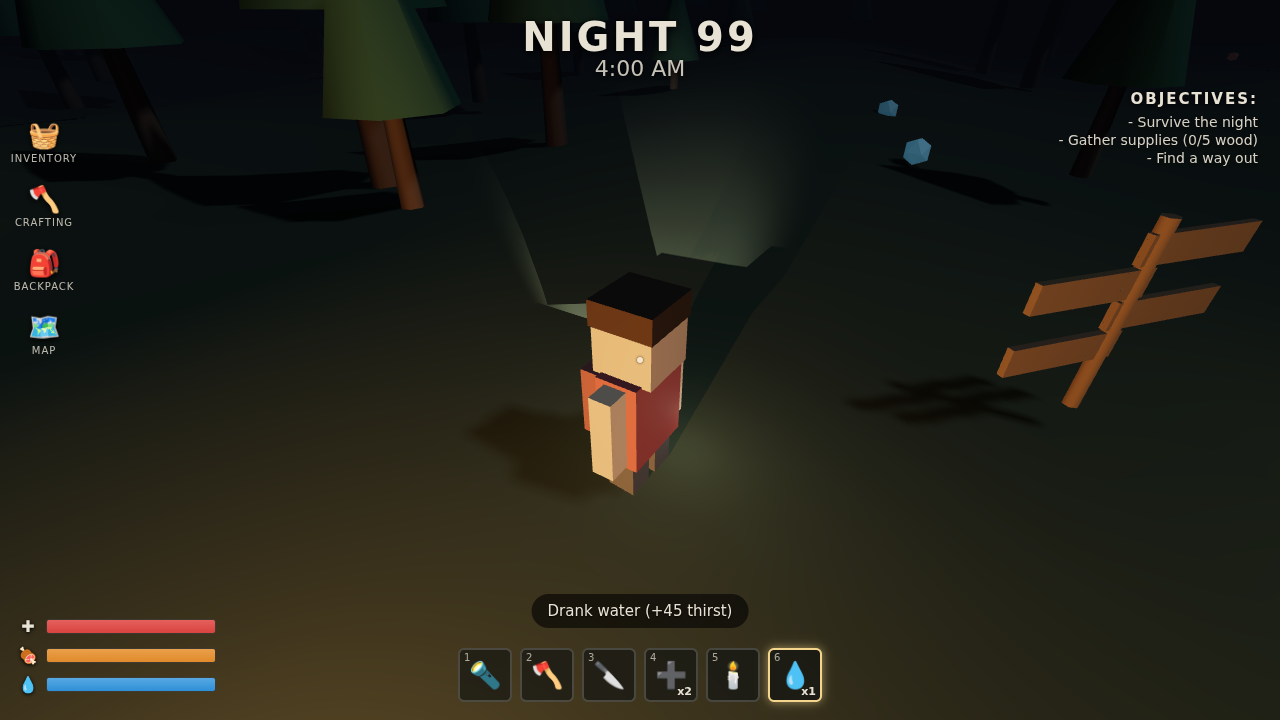
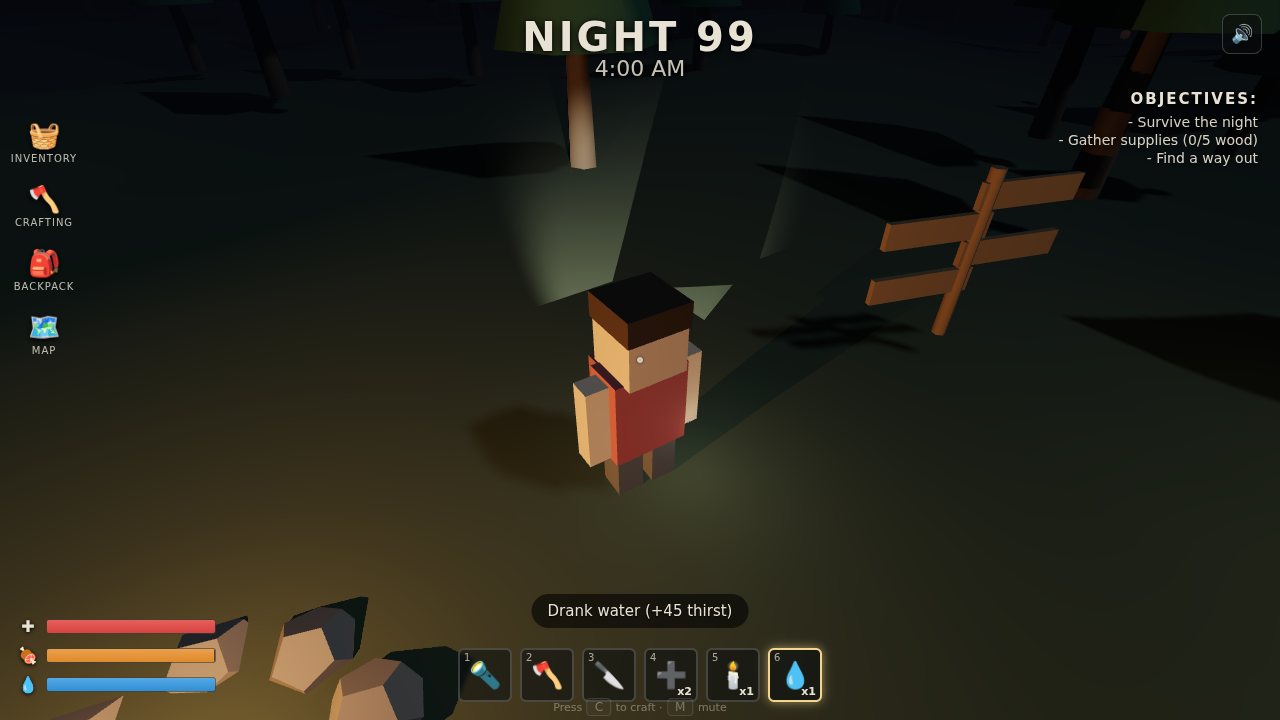
Document sound, crafting, night ramp, and multiplayer
Update the README with the new controls (C craft, M mute), the endless
night-ramp explanation, the crafting recipe table, the procedural sound
notes, and multiplayer setup instructions, plus a multiplayer screenshot.

Claude-Session: https://claude.ai/code/session_01EiMxT2tKP7YPnvvGq6GLsY

diff --git a/nightfall-woods/README.md b/nightfall-woods/README.md
@@ -6,7 +6,8 @@ forest and have to reach dawn without your health, hunger, or thirst hitting zer
 while something with antlers moves between the trees.
 
 Built with plain [Three.js](https://threejs.org) (vendored locally, so it works
-fully offline).
+fully offline). Now with **procedural sound, crafting, an endless difficulty ramp
+across nights, and optional multiplayer**.
 
 ![Nightfall Woods](docs/screenshot.png)
 
@@ -45,6 +46,8 @@ vendored as a classic script (`vendor/three.min.js`), so it loads straight from
 | **Left-click** | Use selected item |
 | **F** | Toggle flashlight |
 | **E** | Interact (pick up berries/water, board the boat) |
+| **C** | Open/close crafting |
+| **M** | Mute/unmute sound |
 | **Esc** | Pause |
 
 ### The loop
@@ -60,8 +63,63 @@ vendored as a classic script (`vendor/three.min.js`), so it loads straight from
 - **The creature hunts in the dark.** It stalks the treeline and charges when it
   spots you away from the fire. Fend it off with the **knife** (slot 3) or wave a
   **torch** (slot 5) to stagger it. The campfire's light keeps it back.
-- **Two ways to win:** outlast the night until dawn, *or* gather 5 wood and press
-  **E** at the boat on the lake to lever it free and escape.
+- **Two ways to win:** escape by boat (gather 5 wood, press **E** at the boat), or
+  keep surviving night after night for as long as you can.
+
+### Surviving forever: the night ramp
+
+Reaching 6:00 AM no longer ends the run. Dawn breaks, you get a small hunger/thirst
+top-up, and **Night 100, 101, 102...** begin, each harder than the last:
+
+- More creatures join the hunt (up to a full pack).
+- They move faster, spot you from further away, and hit harder.
+- Hunger and thirst drain quicker.
+
+Your health carries over between nights, so every night is a fresh gamble on how
+long to push before you make a run for the boat. Escaping by boat is the only clean
+"win"; otherwise it's a high-score chase for the highest night you can reach.
+
+### Crafting
+
+Press **C** (or click the CRAFTING icon) to spend wood on supplies:
+
+| Recipe | Cost | Effect |
+|--------|------|--------|
+| ➕ Bandage | 2 🪵 | +1 First Aid charge |
+| 🕯 Torch | 2 🪵 | +1 torch to stagger the creatures |
+| 🔥 Fire Fuel | 1 🪵 | Refuel the campfire (+25) from anywhere |
+| 🔱 Spear | 4 🪵 | Permanent: your knife hits harder with more reach |
+
+### Sound
+
+All audio is **synthesized at runtime with the Web Audio API** — there are no sound
+files to download, and it works offline. You get a crackling campfire that grows as
+you approach, footsteps, chopping, a low threat drone that swells when a creature
+charges, a stinger the moment the chase begins, and win/lose stings. Toggle it with
+**M** or the speaker button (top-right).
+
+### Multiplayer (optional)
+
+Play the same woods with friends. It's entirely opt-in — the game is fully
+single-player if you skip it.
+
+1. Start the relay server:
+   ```bash
+   cd nightfall-woods/server
+   npm install
+   npm start            # listens on ws://localhost:8080
+   ```
+2. On the start screen, tick **Play multiplayer**, enter your name, and point it at
+   the server (`ws://localhost:8080` for the same machine, or your host's LAN/public
+   address for remote play).
+3. Everyone connected sees each other as named avatars moving through the forest.
+
+![Multiplayer](docs/multiplayer.png)
+
+The server is a tiny relay (`server/server.js`, ~70 lines): it assigns ids and
+broadcasts position/rotation. The forest and creatures stay client-side, so it's a
+shared-space "see each other" layer, a clean base to grow toward synced enemies and
+shared objectives.
 
 ### Hotbar
 
@@ -78,24 +136,29 @@ vendored as a classic script (`vendor/three.min.js`), so it loads straight from
 
 ```
 nightfall-woods/
-├── index.html          # HUD, menus, and page shell
-├── game.js             # All game logic (world, player, creature, systems)
+├── index.html          # HUD, menus, crafting/multiplayer UI, page shell
+├── game.js             # All game logic (world, player, creatures, systems)
+├── audio.js            # Procedural Web Audio sound (window.SFX)
+├── net.js              # Multiplayer client (window.Net)
+├── server/
+│   ├── server.js       # WebSocket relay server
+│   └── package.json    # Server deps (ws)
 ├── vendor/
 │   └── three.min.js    # Three.js r128 (vendored for offline play)
 └── README.md
 ```
 
-Everything is vanilla JS in `game.js` — world generation, the blocky avatar, the
-creature AI, day/night cycle, survival stats, and the win/lose flow are all in one
-readable file, easy to fork and extend.
+`game.js` is vanilla JS — world generation, the blocky avatar, creature AI,
+day/night cycle, survival stats, crafting, the night ramp, and win/lose flow, all in
+one readable file. Sound (`audio.js`) and networking (`net.js`) are decoupled modules
+exposed as `window.SFX` / `window.Net`.
 
 ## Ideas to extend
 
-- More creatures and a difficulty ramp across nights.
-- A crafting menu behind the CRAFTING icon (bandages, torches from wood).
-- Real multiplayer with a small WebSocket server (this is where a "Roblox-like"
-  version would grow next).
-- Sound: a crackling fire loop, footsteps, and a stinger when the creature charges.
+- Server-authoritative creatures so the whole pack is shared in multiplayer.
+- Shared objectives and reviving downed teammates.
+- A visible map behind the MAP icon.
+- Weather and seasonal variation across nights.
 
 ## Credits
 
